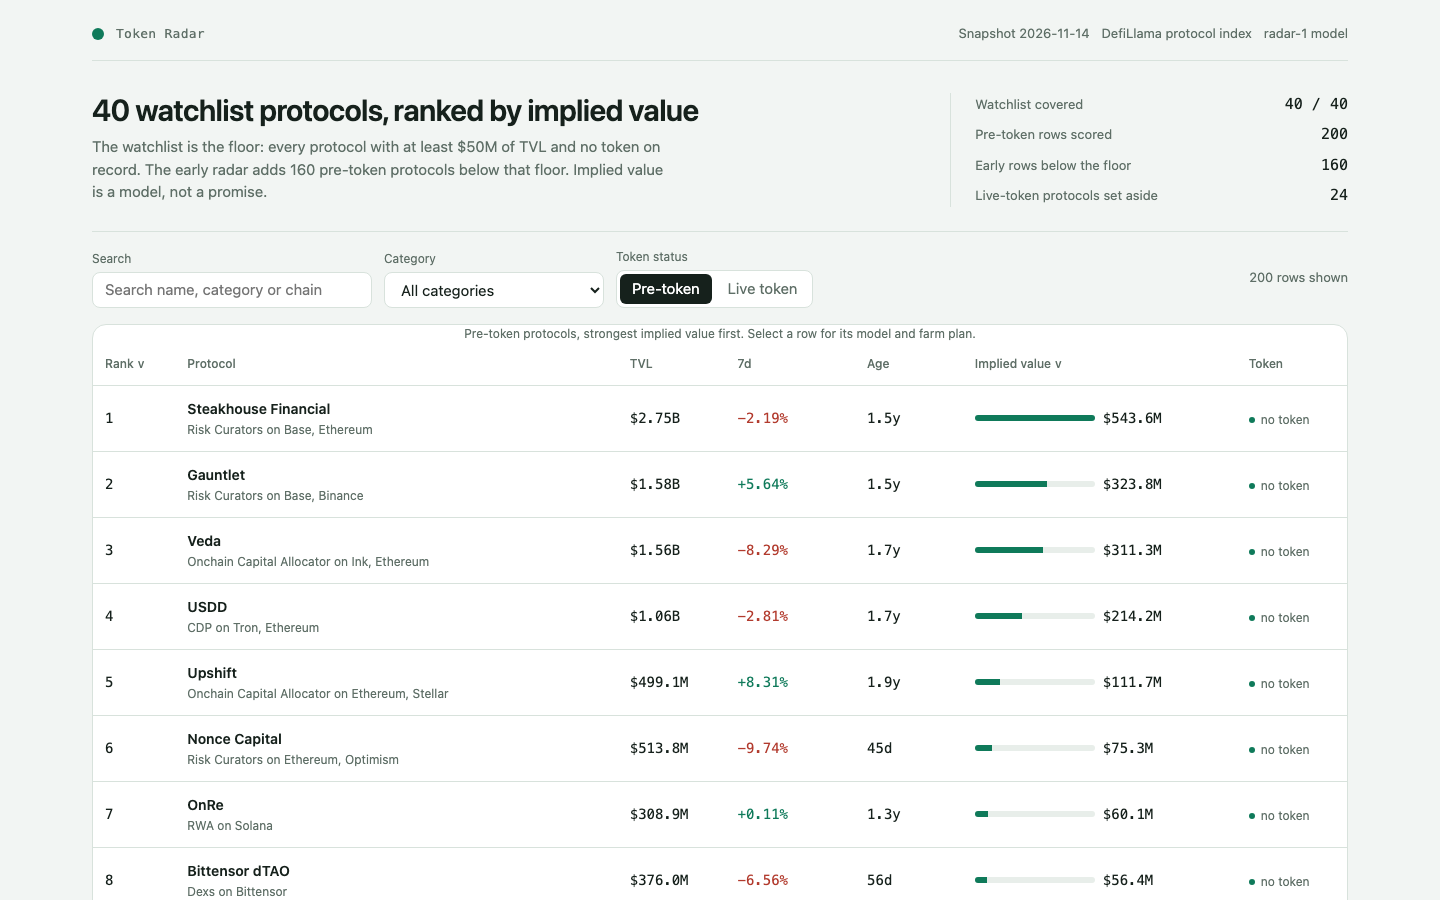
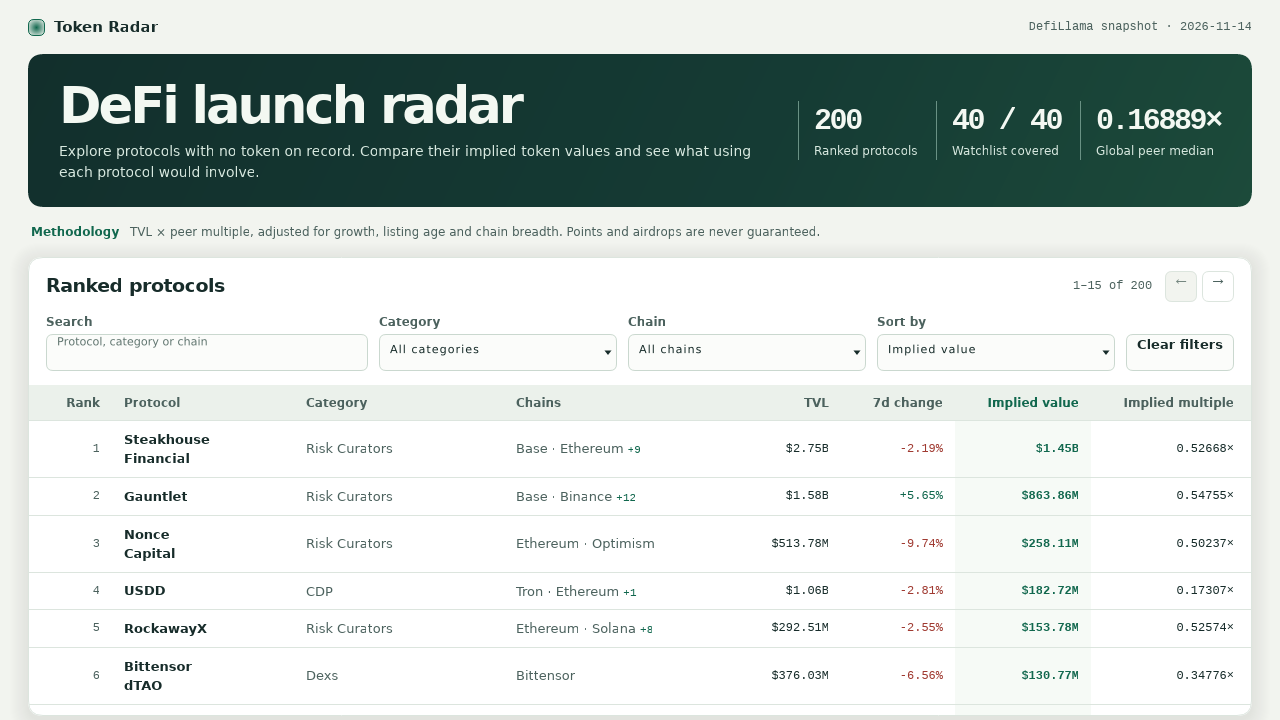
Detail screenshot mode and real screenshots of the new dashboard

diff --git a/dashboard/app.js b/dashboard/app.js
@@ -168,8 +168,6 @@
 
   function renderMethod() {
     const m = data.model;
-    byId('snapshot').textContent = `DefiLlama snapshot · ${data.as_of}`;
-    byId('snapshot').title = data.source;
     setFacts('metrics', [
       ['Ranked protocols', String(data.board_size)],
       ['Watchlist covered', `${data.watchlist_size} / ${data.watchlist_size}`],
@@ -182,12 +180,21 @@
     );
   }
 
-  function setChecklist(row) {
+  function setSteps(row, interactive) {
     const saved = checkedSteps.get(row.slug) ?? new Set();
-    checkedSteps.set(row.slug, saved);
+    if (interactive) checkedSteps.set(row.slug, saved);
     byId('steps').replaceChildren(...row.farm_steps.map((step, index) => {
       const [, action, cost, time] = step.match(/^(.*) Cost: (.*)\. Time: (.*)\.$/) ?? [null, step, '', ''];
       const item = element('li');
+      const notes = element('span', undefined, 'step-copy');
+      notes.append(element('span', action));
+      if (cost) notes.append(element('span', `Cost · ${cost}`, 'step-cost'));
+      if (time) notes.append(element('span', `Time · ${time}`, 'step-time'));
+      if (!interactive) {
+        item.append(notes);
+        return item;
+      }
+
       const label = element('label');
       const check = element('input');
       check.type = 'checkbox';
@@ -196,21 +203,15 @@
         if (check.checked) saved.add(index);
         else saved.delete(index);
       });
-      const notes = element('span', undefined, 'step-copy');
-      notes.append(element('span', action));
-      if (cost) notes.append(element('span', `Cost · ${cost}`, 'step-cost'));
-      if (time) notes.append(element('span', `Time · ${time}`, 'step-time'));
       label.append(check, notes);
       item.append(label);
       return item;
     }));
   }
 
-  function openDetail(row) {
+  function renderDetail(row, interactive) {
     const model = row.model;
     const category = categoryOf(row);
-    selected = row.slug;
-    updateLink();
     byId('detail-meta').textContent = `Rank ${row.rank} of ${data.board_size} · ${category}`;
     byId('detail-title').textContent = row.name;
     byId('detail-chains').textContent = row.chains.join(' · ') || 'No chains recorded';
@@ -244,9 +245,44 @@
       ['Market cap', row.mcap_usd === null ? '—' : wholeUsd.format(row.mcap_usd)],
       ['Listed at', row.listed_at ?? '—'], ['CoinGecko ID', row.gecko_id ?? '—'], ['Symbol', row.symbol ?? '—'],
     ]);
-    setChecklist(row);
+    setSteps(row, interactive);
+  }
+
+  function openDetail(row) {
+    selected = row.slug;
+    updateLink();
+    renderDetail(row, true);
     if (!dialog.open) dialog.showModal();
     dialog.scrollTop = 0;
+  }
+
+  function renderDetailPage(row) {
+    renderDetail(row, false);
+    document.title = `${row.name} | Token Radar`;
+
+    const pageSection = element('section', undefined, 'detail-page');
+    pageSection.setAttribute('aria-labelledby', 'detail-title');
+    const head = dialog.querySelector('.detail-head');
+    const dialogTitle = byId('detail-title');
+    const title = element('h1', dialogTitle.textContent);
+    title.id = dialogTitle.id;
+    dialogTitle.replaceWith(title);
+    const back = element('a', 'Back to the board', 'detail-back');
+    back.href = 'index.html';
+    head.querySelector('form').replaceWith(back);
+
+    const grid = dialog.querySelector('.detail-grid');
+    const raw = byId('raw');
+    const facts = element('section', undefined, 'detail-raw');
+    facts.append(element('h3', raw.querySelector('summary').textContent), byId('facts'));
+    raw.remove();
+    grid.append(facts);
+
+    pageSection.append(head, grid);
+    const shell = document.querySelector('.shell');
+    shell.replaceChildren(shell.querySelector('.masthead'), pageSection);
+    document.querySelector('.skip').remove();
+    dialog.remove();
   }
 
   function renderMarket() {
@@ -261,6 +297,18 @@
       );
       return tr;
     }));
+  }
+
+  byId('snapshot').textContent = `DefiLlama snapshot · ${data.as_of}`;
+  byId('snapshot').title = data.source;
+
+  const query = new URLSearchParams(location.search);
+  if (query.get('shot') === 'detail') {
+    const row = groups.get(query.get('slug')) ?? data.rows.find((row) => row.rank === 1);
+    if (row) {
+      renderDetailPage(row);
+      return;
+    }
   }
 
   fillFilter(filters.category, data.rows.map(categoryOf));

diff --git a/dashboard/app.css b/dashboard/app.css
@@ -217,10 +217,61 @@ dialog::backdrop { background: #132b28a6; }
 .step-cost, .step-time { color: var(--muted); font-size: 11px; }
 .steps input:checked + .step-copy > span:first-child { color: var(--muted); text-decoration: line-through; }
 
+.detail-page .detail-head {
+  position: static;
+  align-items: center;
+  flex-wrap: wrap;
+  padding: 23px 26px;
+  border: 0;
+  border-radius: 16px;
+  color: #f3f8f2;
+  background: linear-gradient(116deg, #122f2c 0%, var(--hero) 60%, #1c4a3a 100%);
+}
+.detail-page h1 {
+  font-size: clamp(27px, 4vw, 48px);
+  font-weight: 720;
+  line-height: 1.08;
+  letter-spacing: -0.05em;
+}
+.detail-page .detail-meta, .detail-page .detail-chains { color: #d8e9e0; }
+.detail-back {
+  padding: 7px 12px;
+  border: 1px solid #699184;
+  border-radius: 7px;
+  color: inherit;
+  font-weight: 650;
+  text-decoration: none;
+}
+.detail-back:hover { background: #ffffff1a; }
+.detail-back:focus-visible { outline-color: currentColor; }
+.detail-page .detail-grid {
+  grid-template-columns: minmax(0, 1fr) minmax(0, 1.55fr) minmax(0, 0.9fr);
+  align-items: start;
+  gap: 12px;
+  margin-top: 12px;
+}
+.detail-page .detail-grid > section, .detail-page .detail-model {
+  padding: 16px 18px 18px;
+  border: 1px solid var(--line);
+  border-radius: 15px;
+  background: var(--surface);
+  box-shadow: 0 4px 18px #183a2d0a;
+}
+.detail-page .breakdown div { grid-template-columns: minmax(0, auto) minmax(0, 1fr); }
+.detail-raw .breakdown { margin-top: 6px; }
+.detail-page .steps { padding-left: 21px; list-style: decimal; }
+.detail-page .steps li { padding: 8px 0 8px 3px; }
+.detail-page .steps li::marker { color: var(--accent); font: 600 12px var(--mono); }
+.detail-page .step-copy { display: block; }
+.detail-page .step-copy > span:first-child { display: block; margin-bottom: 3px; }
+.detail-page .step-cost, .detail-page .step-time { display: inline-block; margin-right: 12px; }
+
 @media (max-width: 950px) {
   .intro { grid-template-columns: 1fr; gap: 16px; }
   .controls { grid-template-columns: repeat(3, minmax(0, 1fr)); }
   .search-field { grid-column: span 2; }
+  .detail-page .detail-grid { grid-template-columns: minmax(0, 1fr) minmax(0, 1.55fr); }
+  .detail-raw { grid-column: 1 / -1; }
 }
 @media (max-width: 650px) {
   .shell { padding-inline: 12px; }
@@ -234,4 +285,6 @@ dialog::backdrop { background: #132b28a6; }
   .detail-model { border-right: 0; border-bottom: 1px solid var(--line); }
   .detail-head, .detail-model, .detail-plan { padding-inline: 13px; }
   .detail-head h2 { font-size: 24px; }
+  .detail-page .detail-head { padding: 18px 16px; }
+  .detail-page .detail-grid { grid-template-columns: 1fr; }
 }
